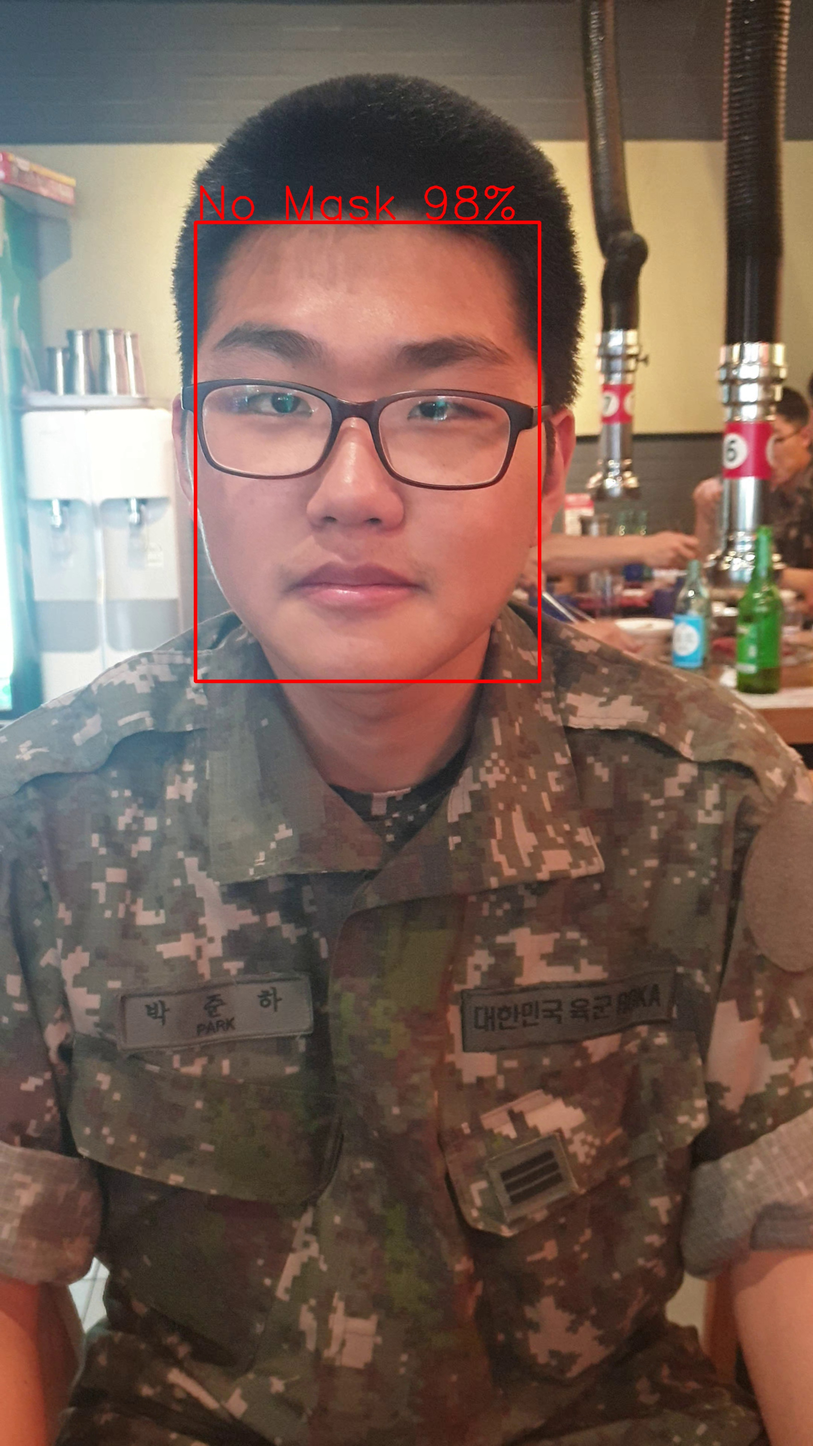
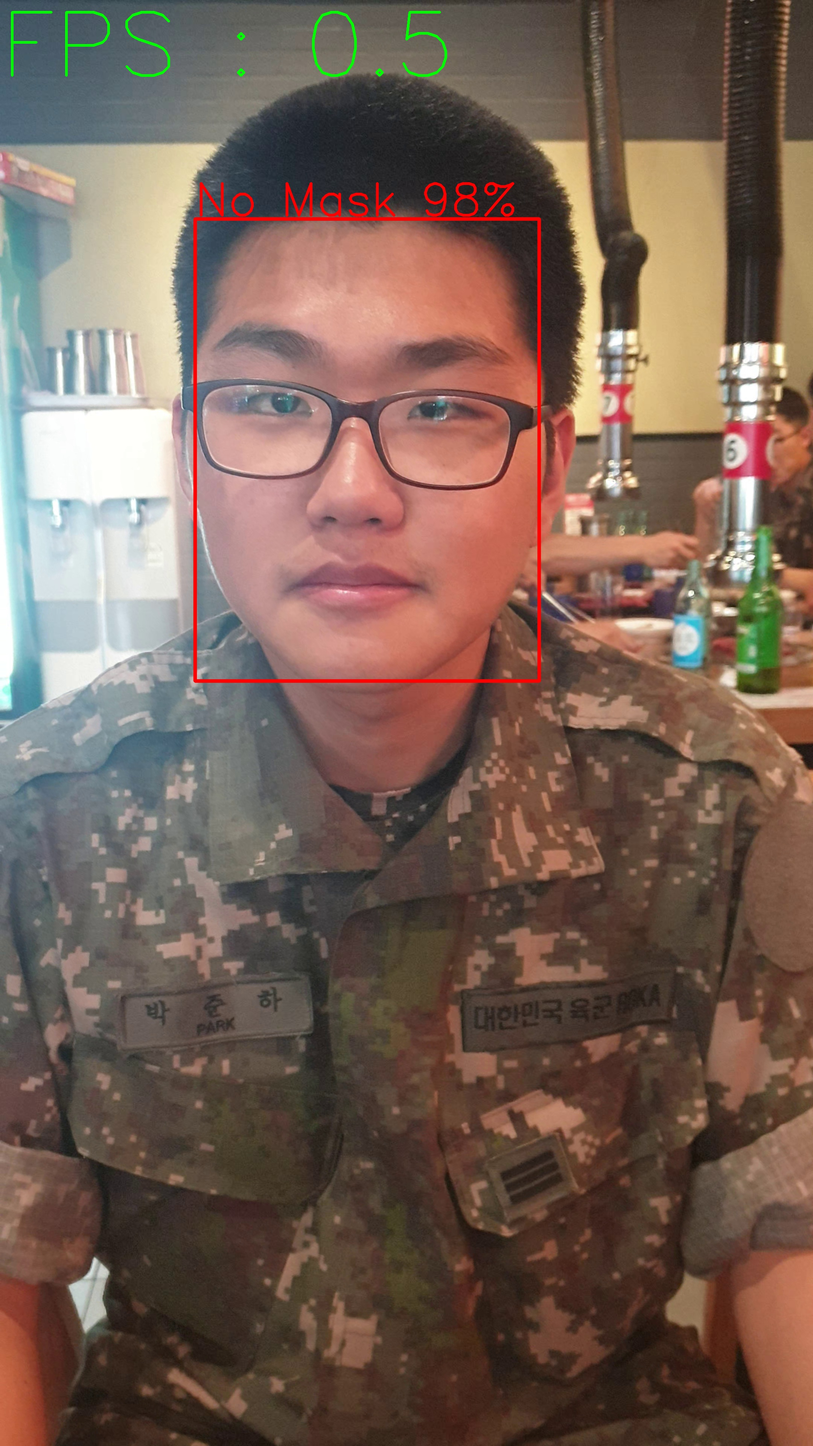
Frame per sec 추가 fixed #4

diff --git a/ui_main_python02.py b/ui_main_python02.py
@@ -28,6 +28,7 @@ from ui_main_window_test02 import *
 
 from collections import deque
 
+import time
 
 
 
@@ -145,6 +146,7 @@ class MainWindow(QWidget):
         self.timer = QTimer()
         # set timer timeout callback function
         self.timer.timeout.connect(self.viewCam)
+        #
         self.timer.timeout.connect(self.viewThermalCam)
         # self.cap =  cv2.VideoCapture(0) 으로 하면 웹캠 실시간으로 나옴
         self.cap =  cv2.VideoCapture('imgs/junha_video.mp4')
@@ -164,6 +166,7 @@ class MainWindow(QWidget):
         qImg = QImage(image.data, width, height, step, QImage.Format_RGB888)
         # show image in main_video
         self.ui.label_3.setPixmap(QPixmap.fromImage(qImg))
+        self.prevTime = 0
     def put_img_to_labels(self, dq):
         
         image = self.dq[0]        
@@ -209,12 +212,19 @@ class MainWindow(QWidget):
     def sound(self):
         pass
 
-
     # view camera
     def viewCam(self):
-        # read image in BGR format
         ret, img = self.cap.read()
         img = cv2.rotate(img, cv2.ROTATE_90_CLOCKWISE)
+        # 프레임
+        curTime = time.time()
+        sec = curTime - self.prevTime
+        self.prevTime = curTime
+        fps = 1/(sec)
+        FPS = "FPS : %0.1f" % fps
+        cv2.putText(img, FPS, (0, 200), cv2.FONT_HERSHEY_SIMPLEX, 8, (0, 255, 0), thickness=5)
+        # read image in BGR format
+        
 
         h, w = img.shape[:2]
 
